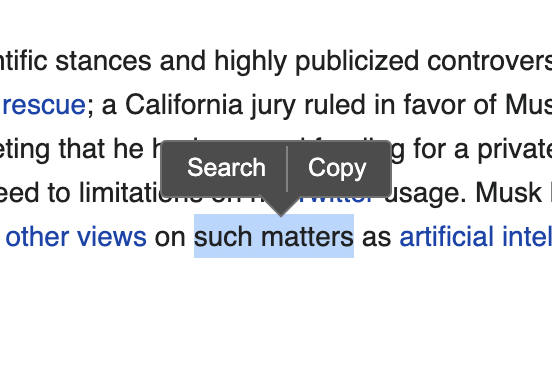
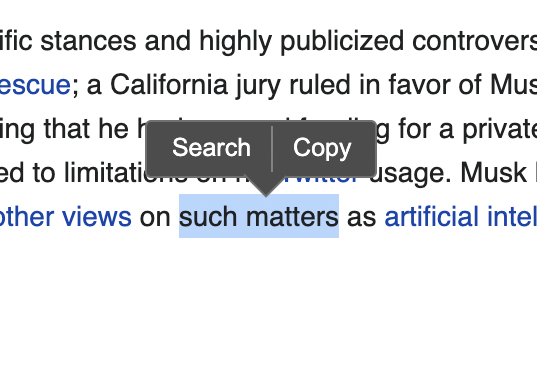
Update README and screenshot alignment

Changed region(s): [[0.0, 0.0599, 1.0, 0.6894]]

diff --git a/README.md b/README.md
@@ -1,15 +1,16 @@
 # <sub><img src="https://github.com/emvaized/selecton-extension/blob/master/icons/logo-48.png" height="48" width="48" alt="S"></sub>electon - text selection actions
 
-Get customizable pop-up with action buttons on text selection!
+Get customizable pop-up with action buttons on text selection
 * Copy or search any text in one click - especially useful for laptops
 * Customizable appearance for tooltip and custom text selection color
 * Currency converter (supports 30+ currencies & 10+ crypto currencies)
 * Basic units converter (metric/imperial) and timezones conversion
 * Contextual buttons depending on selected text, such as 'Open link', 'Translate', 'Show on map', CSS color preview and more 
 * Smart selection - automatic snapping of text selection by words, so you'll never lose that last letter again
-* Selection handles, which allow to quickly edit the selection
+* Selection handles, which allow to quickly edit text selection
 * Live translation of the selected text on hovering the "Translate" button
 * Dictionary button, which fetches definition from Wikipedia on hover
+* Highlighter button, which allows to highlight specific text on page and quickly find it later
 
 <img src="https://github.com/emvaized/selecton-extension/blob/master/screenshots/1.png">
 
@@ -117,6 +118,10 @@ This is set to "18" by default, because rates tend to not change drastically so 
 
 * Use this URL: *chrome-extension://*{ID OF EXTENSION}*/options/options.html*, where {ID OF EXTENSION} is a unique extension ID on your computer. You can get this from extension details page on chrome://extensions
 
+**Highlight button cuts my text selection**
+
+* To make it work reliably, please highlight single words or sentences — highlighter trims selection within one HTML node, otherwise page layout may be broken when highlight gets restored
+
 ----
 
 ### Contributing
@@ -126,10 +131,10 @@ You can make Selecton better without even knowing how to code:
 - Selecton relies on looking for keywords in the selected text. Enhance them with keywords for your language: [Keywords](https://github.com/emvaized/selecton-extension/blob/master/src/data/keywords.js)
 
 Make your changes, and then create pull request here on GitHub so I can merge it.
-
 Also, you can always write me an [email](mailto:maximtsyba@gmail.com) to share your ideas and suggestions.
 
+**Ideas for future releases**
 
-
-
-
+- Advanced editor with preview, which allows to quickly turn on/off buttons and change their order with drag'n'drop
+- Cloud sync of settings using browser account sync
+- Ability to turn on/off background blur for tooltip and hover panels
